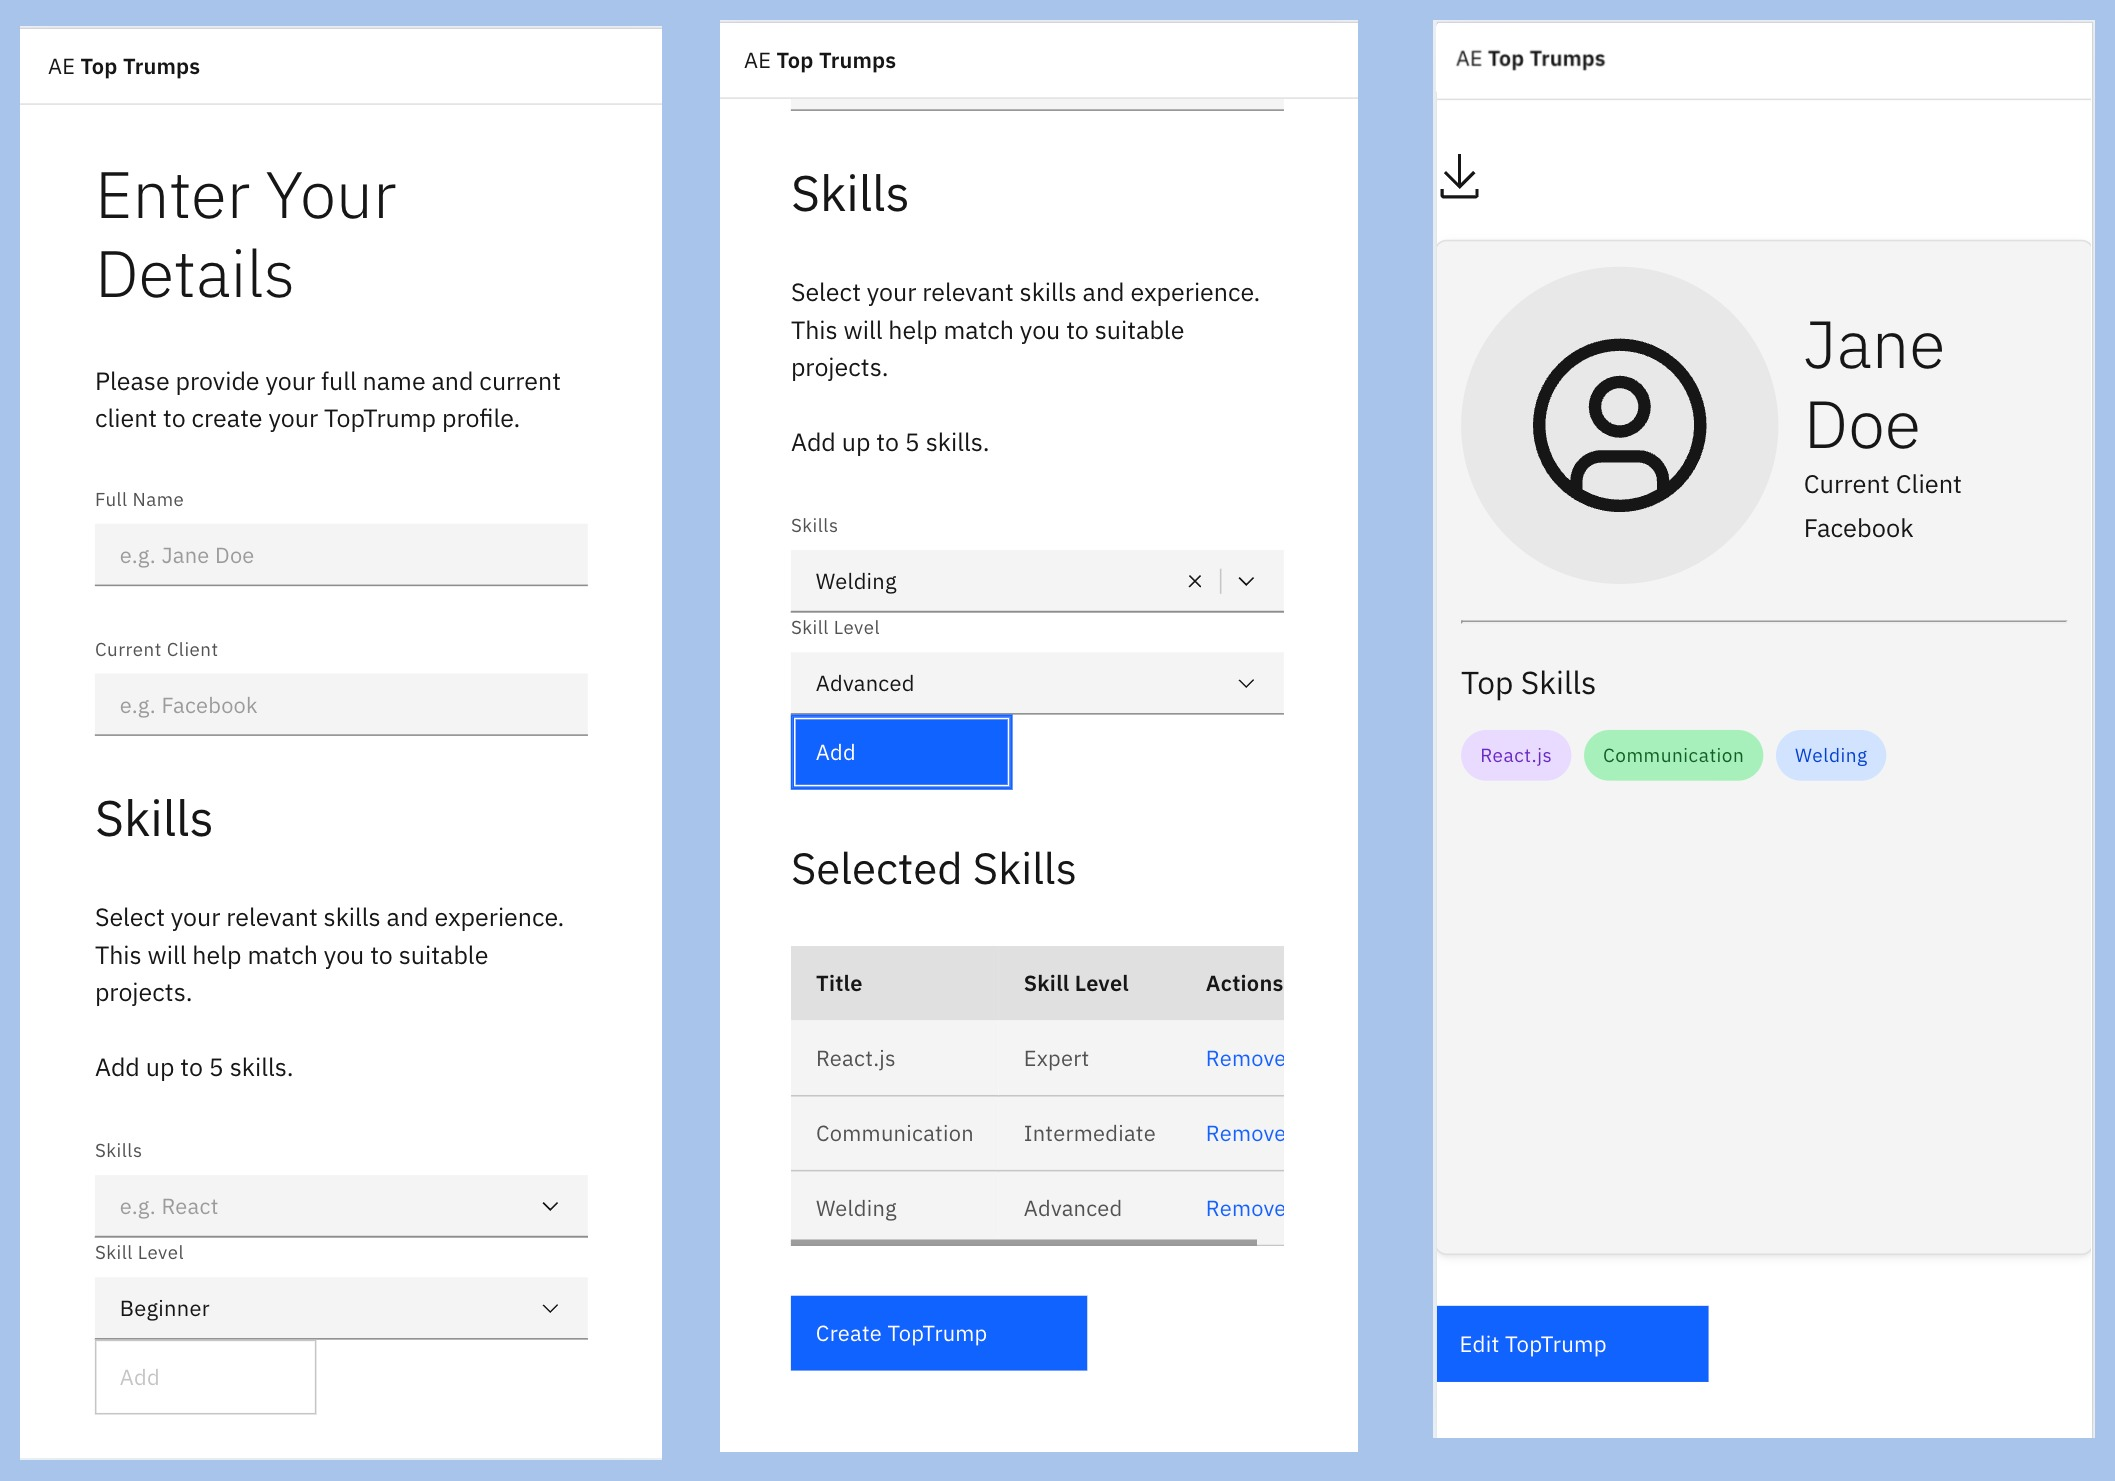
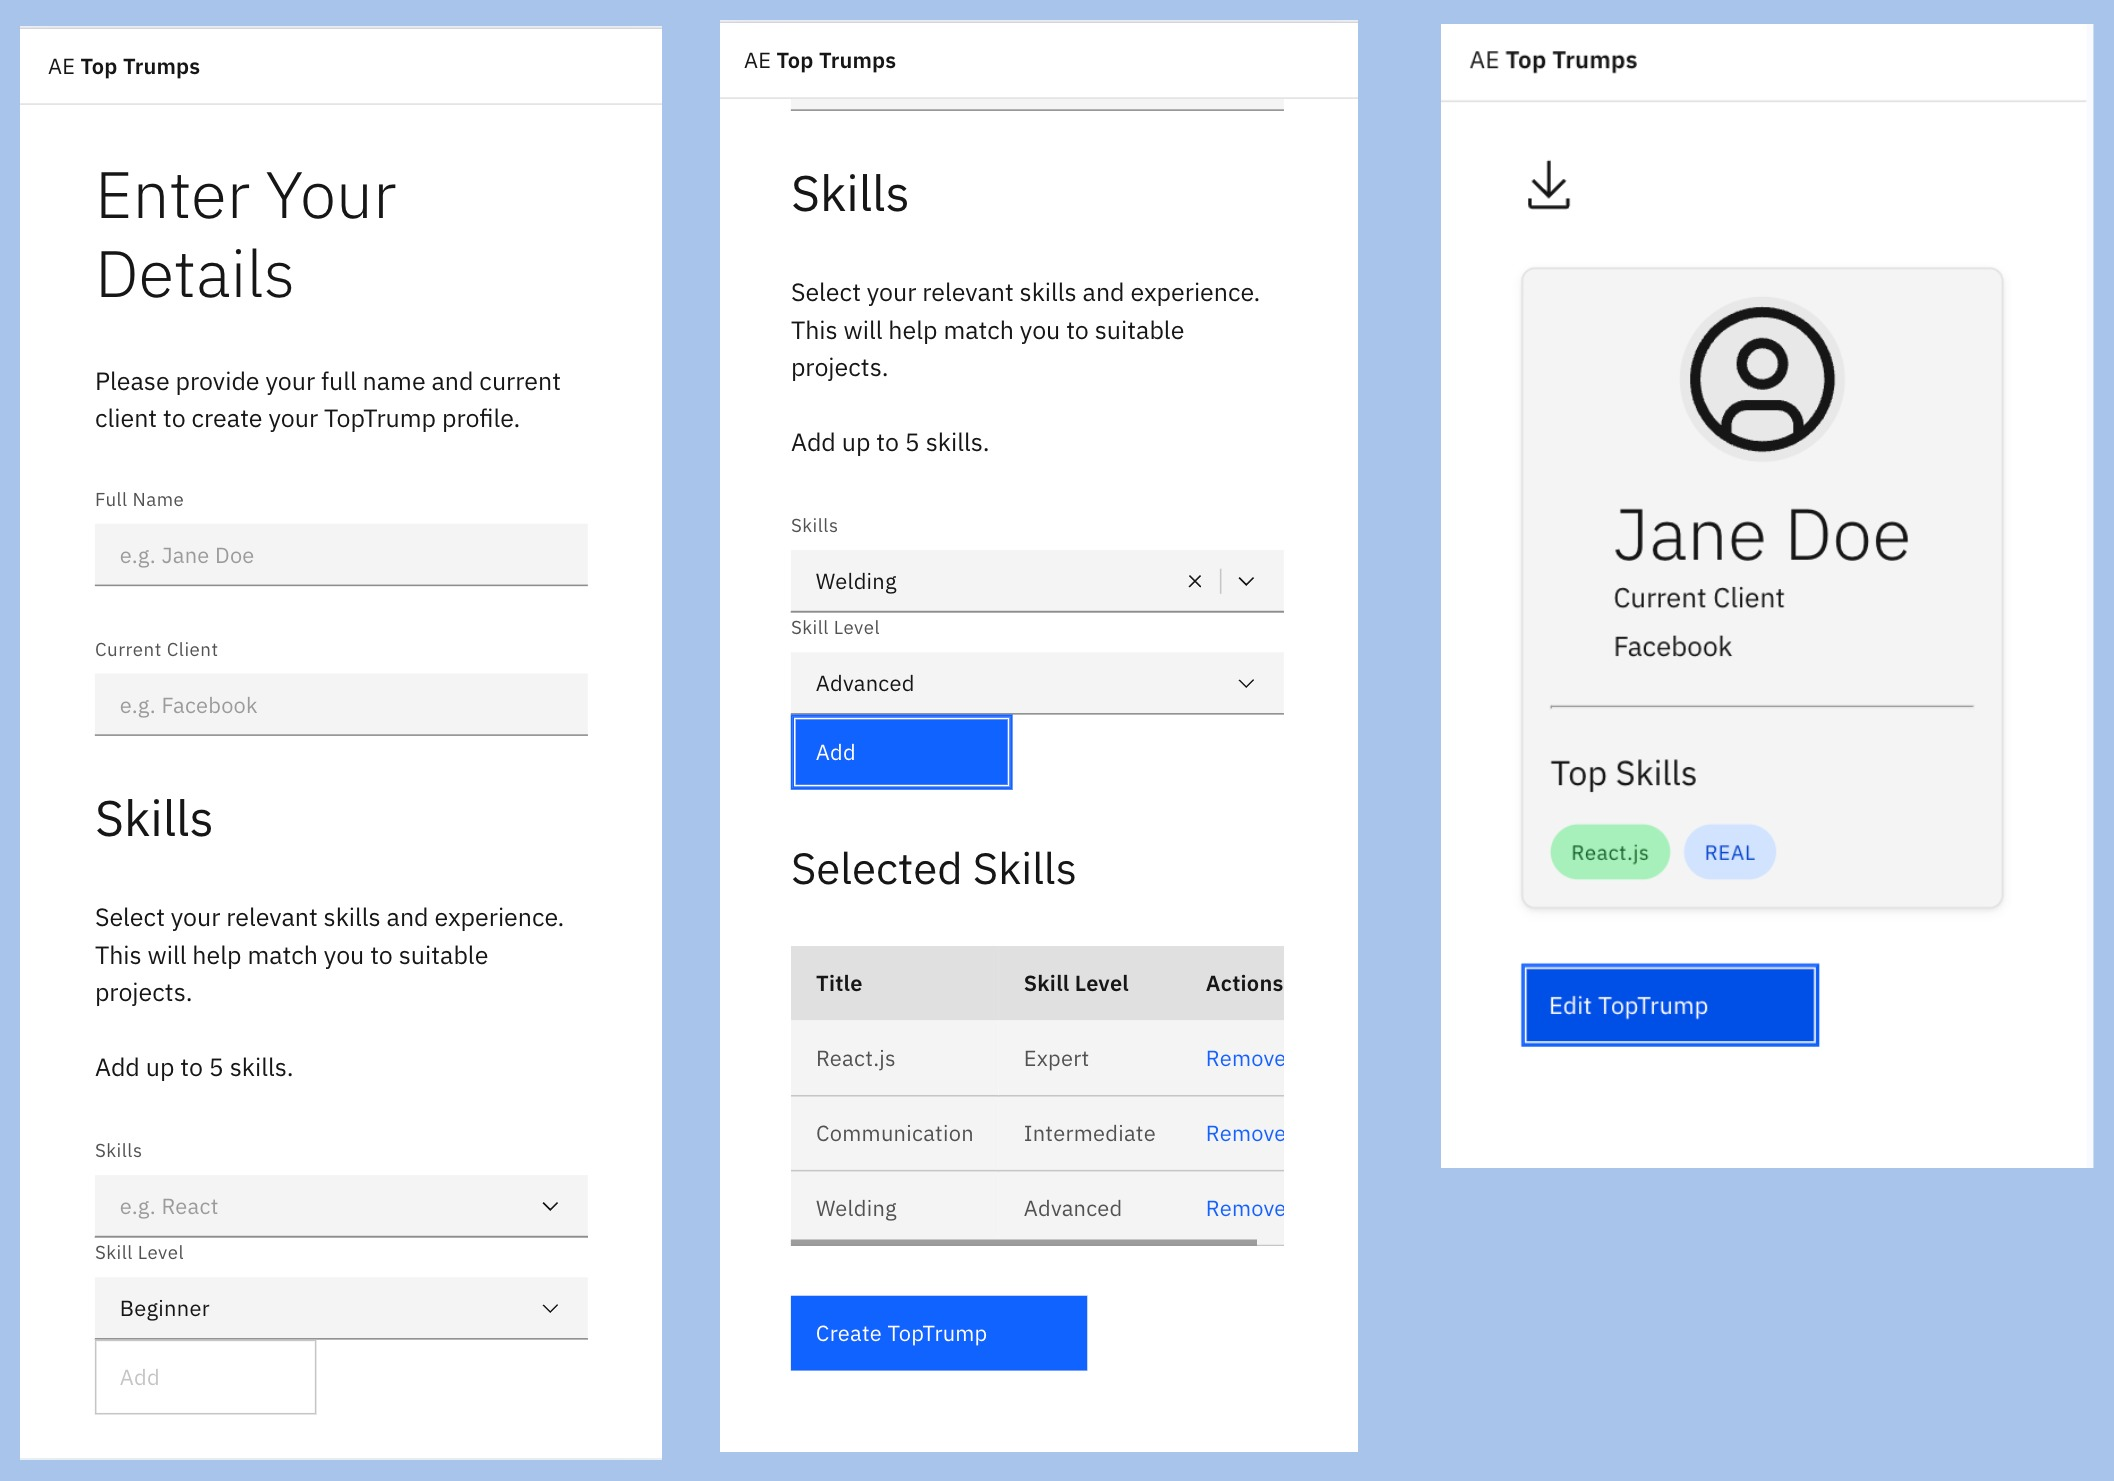
fix(responsiveness): top trump at small res

diff --git a/src/components/TopTrump/TopTrump.scss b/src/components/TopTrump/TopTrump.scss
@@ -1,13 +1,16 @@
 @use "@carbon/react/scss/spacing" as *;
 @use "@carbon/react/scss/theme" as *;
 @use "@carbon/react/scss/type" as *;
+@use "@carbon/react/scss/breakpoint" as bp;
 
 .top-trump-card {
-  width: 100%; /* Fill the container by default */
-  min-width: 26rem;
-  max-width: 35rem;
-  min-height: 40rem;
-  max-height: 48rem;
+  width: 100%; /* Fill the grid column by default */
+  /* Let the grid control width; avoid fixed min/max that can break responsiveness */
+  min-width: 0;
+  max-width: none;
+  /* Mobile-first height: let content size naturally */
+  min-height: auto;
+  max-height: none;
   border-top: 4px solid var(--cds-interactive);
   background-color: var(--cds-layer);
   border: 1px solid var(--cds-border-subtle);
@@ -17,16 +20,42 @@
     0 1px 2px rgba(0, 0, 0, 0.04);
 }
 
+/* From md and up, add some vertical structure if needed */
+@include bp.breakpoint("md") {
+  .top-trump-card {
+    min-height: 36rem;
+  }
+}
+
+/* From lg and up, restore original intended vertical sizing while still filling the grid column */
+@include bp.breakpoint("lg") {
+  .top-trump-card {
+    min-height: 40rem;
+    max-height: 48rem;
+  }
+}
+
 .card-header {
   display: flex;
+  /* Mobile-first: stack */
+  flex-direction: column;
   align-items: center;
   gap: $spacing-05;
   padding-bottom: $spacing-05;
 }
 
+@include bp.breakpoint("md") {
+  .card-header {
+    /* Row layout from md and up */
+    flex-direction: row;
+    align-items: center;
+  }
+}
+
 .card-avatar {
-  width: 200px;
-  height: 200px;
+  /* Responsive avatar: scales on small screens up to 200px */
+  width: clamp(96px, 25vw, 200px);
+  height: clamp(96px, 25vw, 200px);
   border-radius: 50%;
   background-color: var(--cds-layer-hover);
   display: flex;
@@ -62,5 +91,22 @@
 .cards-container {
   display: grid;
   gap: 1.5rem;
-  justify-content: center;
+  /* Single column by default inside the grid column */
+  grid-template-columns: 1fr;
+  /* Avoid centering gaps causing odd alignment; the grid column already centers via Carbon Grid */
+  justify-content: stretch;
+}
+
+@include bp.breakpoint("md") {
+  .cards-container {
+    /* Two cards per row on medium screens within the grid column */
+    grid-template-columns: repeat(2, 1fr);
+  }
+}
+
+@include bp.breakpoint("lg") {
+  .cards-container {
+    /* Three cards per row on large screens within the grid column */
+    grid-template-columns: repeat(3, 1fr);
+  }
 }

diff --git a/src/components/TopTrump/TopTrump.tsx b/src/components/TopTrump/TopTrump.tsx
@@ -39,7 +39,7 @@ const TopTrumpCard: React.FC<TopTrumpProps> = ({
   };
 
   return (
-    <div className="cards-container">
+    <>
       <Download
         onClick={handleDownload}
         size={32}
@@ -79,7 +79,7 @@ const TopTrumpCard: React.FC<TopTrumpProps> = ({
           </div>
         </div>
       </Tile>
-    </div>
+    </>
   );
 };
 
